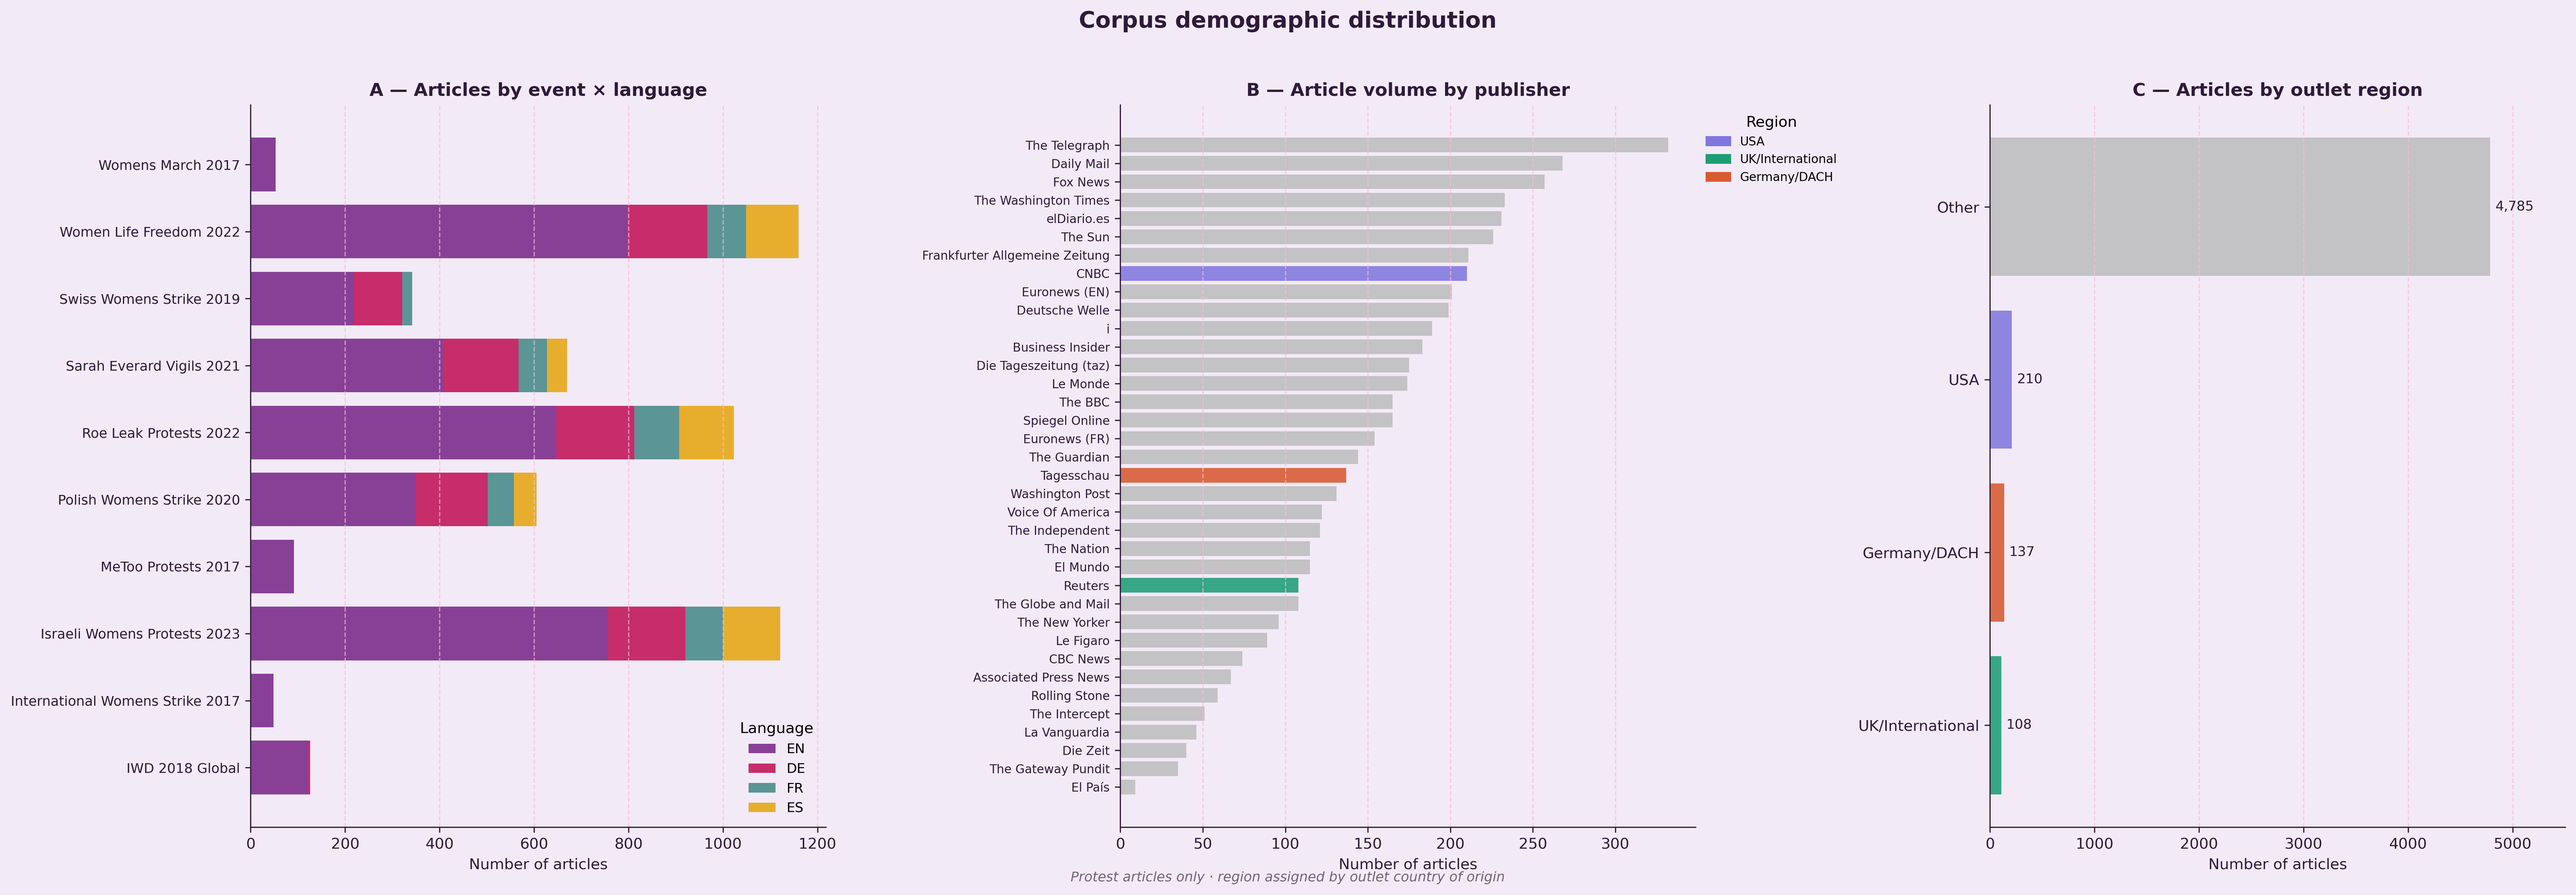
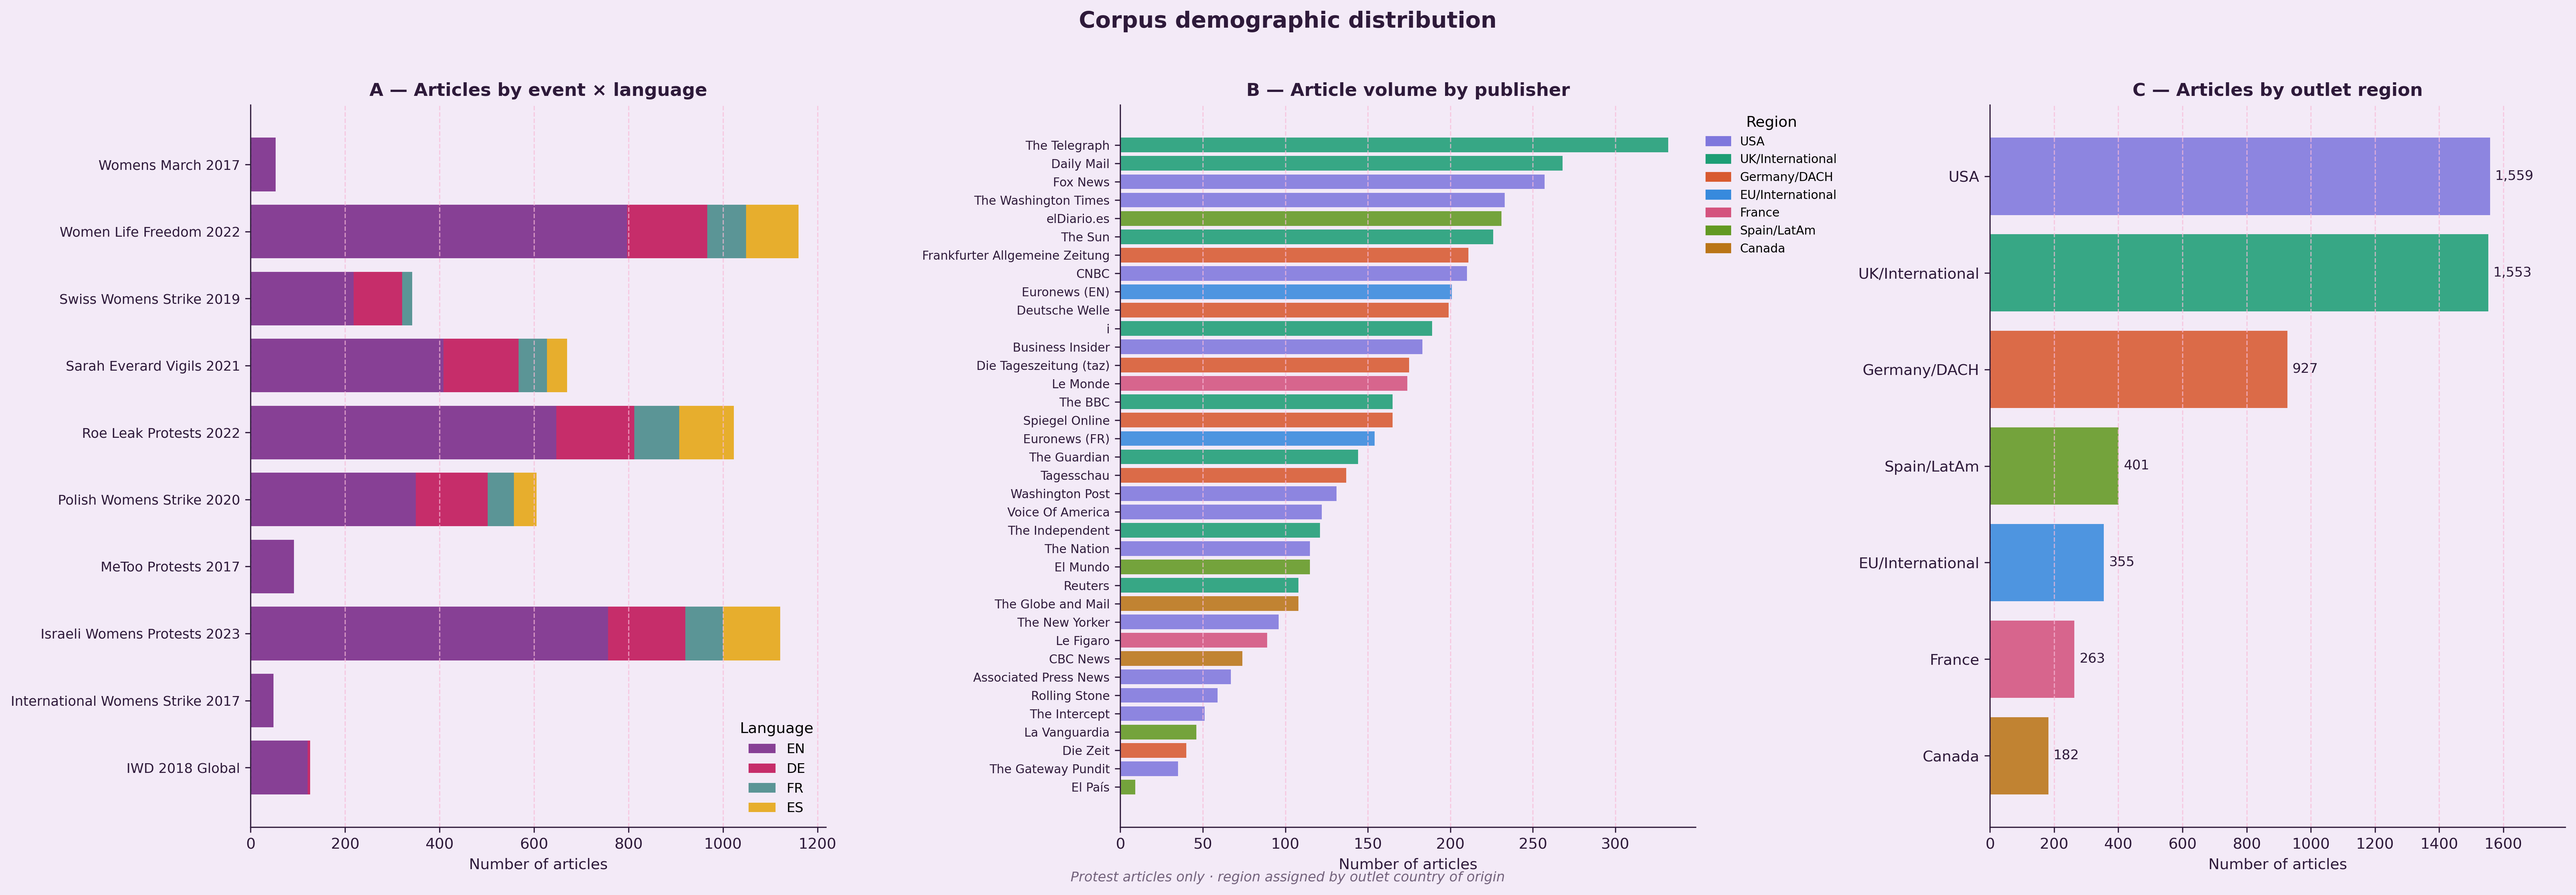
update demographic distribution viz

diff --git a/visualise.py b/visualise.py
@@ -1045,25 +1045,44 @@ def chart_demographic_distribution(df: pd.DataFrame, out_dir: str, dpi: int) -> 
 
     # Country/region map — group publishers by outlet origin
     OUTLET_REGION: dict[str, str] = {
-        "APNews": "USA", "Reuters": "UK/International", "VoiceOfAmerica": "USA",
-        "WashingtonPost": "USA", "TheNewYorker": "USA", "TheNation": "USA",
-        "TheIntercept": "USA", "RollingStone": "USA", "LATimes": "USA",
-        "BusinessInsider": "USA", "CNBC": "USA", "FoxNews": "USA",
-        "WashingtonTimes": "USA", "FreeBeacon": "USA", "TheGatewayPundit": "USA",
-        "BBC": "UK/International", "TheGuardian": "UK/International",
-        "TheIndependent": "UK/International", "EuronewsEN": "EU/International",
-        "iNews": "UK/International", "DailyMail": "UK/International",
-        "TheTelegraph": "UK/International", "TheSun": "UK/International",
-        "DW": "Germany/DACH", "SpiegelOnline": "Germany/DACH",
-        "DieZeit": "Germany/DACH", "Tagesschau": "Germany/DACH",
-        "FAZ": "Germany/DACH", "Taz": "Germany/DACH",
-        "DerStandard": "Germany/DACH", "DiePresse": "Germany/DACH", "ORF": "Germany/DACH",
-        "CBCNews": "Canada", "NationalPost": "Canada", "TheGlobeAndMail": "Canada",
-        "LeMonde": "France", "LeFigaro": "France", "EuronewsFR": "EU/International",
-        "ElPais": "Spain/LatAm", "ElMundo": "Spain/LatAm", "ElDiario": "Spain/LatAm",
-        "LaVanguardia": "Spain/LatAm", "ABC": "Spain/LatAm", "Publico": "Spain/LatAm",
-        "IsraelNachrichten": "Israel",
+        "Associated Press News":        "USA",
+        "CNBC":                         "USA",
+        "Voice Of America":             "USA",
+        "Washington Post":              "USA",
+        "The New Yorker":               "USA",
+        "The Nation":                   "USA",
+        "The Intercept":                "USA",
+        "Rolling Stone":                "USA",
+        "Business Insider":             "USA",
+        "Fox News":                     "USA",
+        "The Washington Times":         "USA",
+        "The Gateway Pundit":           "USA",
+        "The BBC":                      "UK/International",
+        "The Guardian":                 "UK/International",
+        "The Independent":              "UK/International",
+        "Daily Mail":                   "UK/International",
+        "The Telegraph":                "UK/International",
+        "The Sun":                      "UK/International",
+        "i":                            "UK/International",
+        "Reuters":                      "UK/International",
+        "Deutsche Welle":               "Germany/DACH",
+        "Spiegel Online":               "Germany/DACH",
+        "Die Zeit":                     "Germany/DACH",
+        "Tagesschau":                   "Germany/DACH",
+        "Frankfurter Allgemeine Zeitung": "Germany/DACH",
+        "Die Tageszeitung (taz)":       "Germany/DACH",
+        "CBC News":                     "Canada",
+        "The Globe and Mail":           "Canada",
+        "Le Monde":                     "France",
+        "Le Figaro":                    "France",
+        "Euronews (EN)":                "EU/International",
+        "Euronews (FR)":                "EU/International",
+        "El País":                      "Spain/LatAm",
+        "El Mundo":                     "Spain/LatAm",
+        "elDiario.es":                  "Spain/LatAm",
+        "La Vanguardia":                "Spain/LatAm",
     }
+    
     REGION_COLOR = {
         "USA":              "#7F77DD",
         "UK/International": "#1D9E75",
@@ -1075,7 +1094,11 @@ def chart_demographic_distribution(df: pd.DataFrame, out_dir: str, dpi: int) -> 
         "Israel":           "#888780",
     }
 
-    protest_df["region"] = protest_df["publisher"].map(OUTLET_REGION).fillna("Other")
+    _OUTLET_REGION_LOWER = {k.lower(): v for k, v in OUTLET_REGION.items()}
+
+    protest_df["region"] = protest_df["publisher"].map(
+        lambda p: OUTLET_REGION.get(p, _OUTLET_REGION_LOWER.get(str(p).lower(), "Other"))
+    )
 
     fig, (ax1, ax2, ax3) = plt.subplots(1, 3, figsize=(24, 8))
     fig.patch.set_facecolor(LAVENDER_CREAM)
